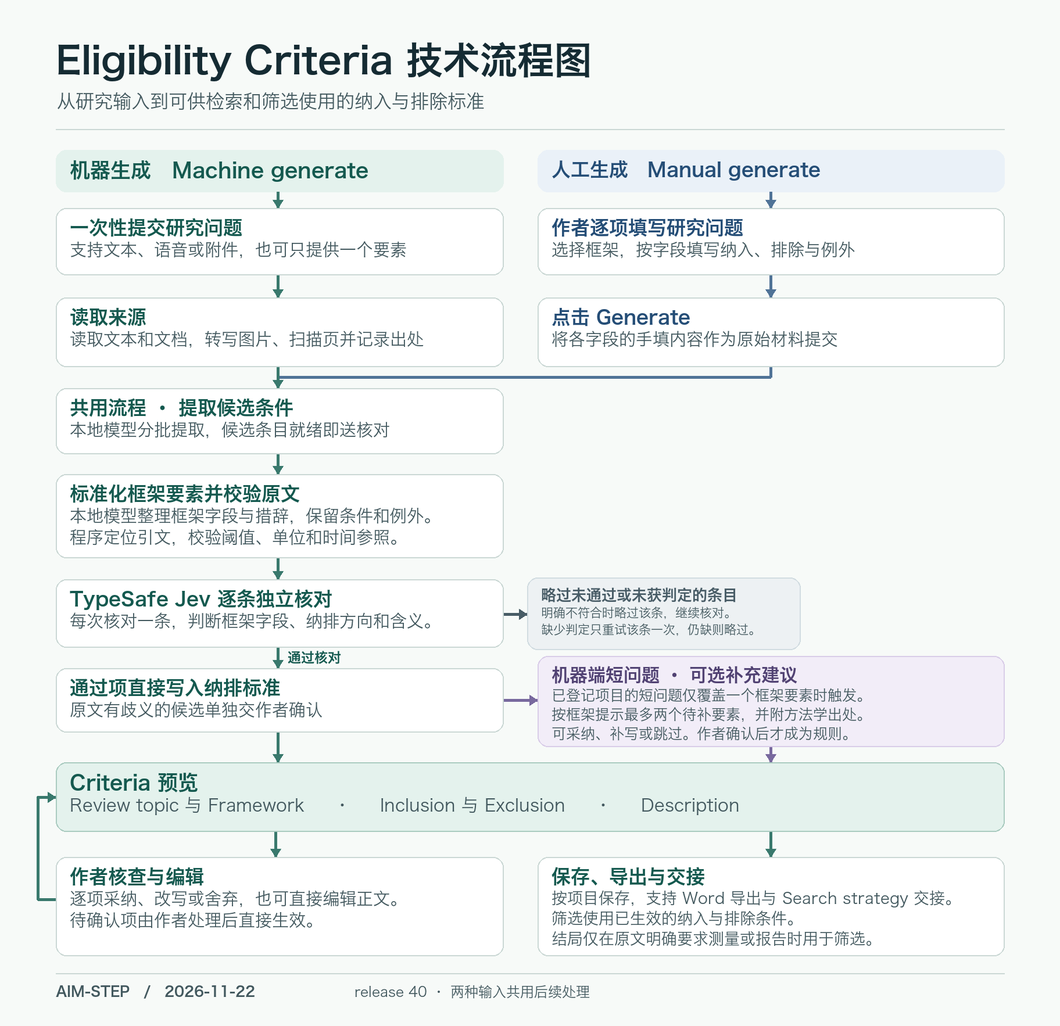
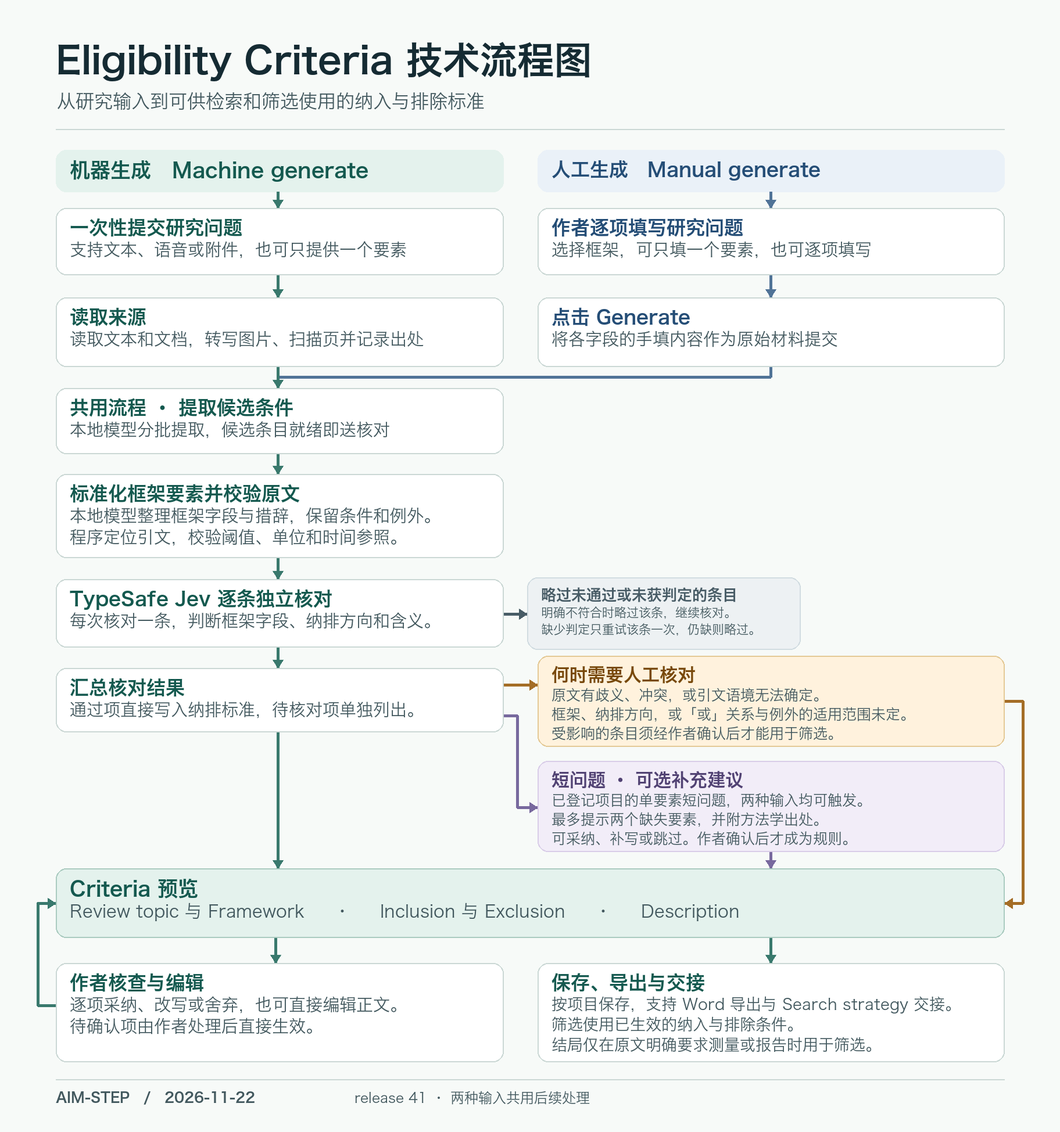
Share short-input advice across eligibility entry modes

Changed region(s): [[0.0625, 0.0311, 0.9688, 0.7786], [0.0312, 0.7475, 0.9375, 0.9966], [0.9375, 0.7163, 0.9688, 0.8097]]

diff --git a/search-strategy.html b/search-strategy.html
@@ -1,8 +1,8 @@
 <!doctype html>
 <html lang="en"><head>
 <script src="app/project-access.js?v=20261117-projects-1"></script>
-<script src="app/eligibility-release.js?v=20261122-criteria-release-40"></script>
-<script src="app/secure-origin.js?v=20261122-criteria-release-40"></script>
+<script src="app/eligibility-release.js?v=20261122-criteria-release-41"></script>
+<script src="app/secure-origin.js?v=20261122-criteria-release-41"></script>
 <script src="app/online-model.js?v=online-auth-v3"></script><meta charset="utf-8"><meta name="viewport" content="width=device-width,initial-scale=1"><meta name="theme-color" content="#ffffff"><meta name="description" content="Build database-specific search strategies from eligibility criteria, retrieve literature and save results locally."><title>AIM-STEP | Search strategy</title><style>:root{--ink:#171920;--ink2:#393a41;--muted:#686970;--line:#d8d9db;--plum:#4d6bfe;--pale:#eff1f8;--green:#182879;--amber:#0b218d;--red:#1832b4}*{box-sizing:border-box}body{margin:0;font:14px/1.5 Inter,Arial,sans-serif;color:var(--ink);background:#fafafa;-webkit-font-smoothing:antialiased}a{color:var(--plum);text-decoration:none}a:hover{text-decoration:underline}button,input,select,textarea{font:inherit}button{cursor:pointer}button:disabled{cursor:default;opacity:.5}button:focus-visible,a:focus-visible,summary:focus-visible{outline:3px solid #5c004d55;outline-offset:3px}[hidden]{display:none!important}.header{min-height:66px;background:#fff;border-bottom:1px solid var(--line);display:flex;align-items:center;justify-content:space-between;gap:24px;padding:0 max(28px,calc((100vw - 1240px)/2));position:sticky;top:0;z-index:5}.brand{display:flex;align-items:center;gap:10px;font-weight:700;letter-spacing:.07em}.brand:hover{text-decoration:none}.brand-mark{width:28px;height:28px;border:2px solid var(--plum);border-radius:50%;display:grid;place-items:center;font-size:11px}.brand small{display:block;font-size:9px;line-height:1;color:#656770;letter-spacing:.12em;font-weight:500}.nav{display:flex;gap:32px;color:#555}.nav a{padding:22px 0;color:inherit}.nav a.active{color:var(--plum);font-weight:700;border-bottom:2px solid var(--plum)}.project-pill{border:1px solid var(--line);border-radius:999px;padding:7px 12px;max-width:240px;white-space:nowrap;text-overflow:ellipsis;overflow:hidden}.wrap{max-width:1240px;margin:auto;padding:28px 24px 60px}.crumb{font-size:12px;color:var(--muted);margin-bottom:17px}.heading{display:flex;justify-content:space-between;align-items:flex-start;gap:20px;margin-bottom:23px}h1{font-size:28px;line-height:1.25;margin:0 0 10px;font-weight:700}h2{font-size:16px;margin:0;font-weight:700}h3{font-size:14px;margin:0}.sub{color:var(--muted);margin:0}.heading-actions{display:flex;align-items:center;gap:10px;flex-wrap:wrap;justify-content:flex-end}.badge{background:#f4f4f4;border:1px solid var(--line);border-radius:999px;padding:5px 10px;font-size:11px;color:var(--ink2)}.columns{display:grid;grid-template-columns:minmax(0,1.08fr) minmax(0,1fr);gap:20px;align-items:start}.left-column,.right-column{min-width:0}.panel{border:1px solid var(--line);background:#fff;border-radius:12px;margin-bottom:18px;overflow:hidden}.panel-head{display:flex;align-items:center;justify-content:space-between;gap:14px;padding:16px 18px;border-bottom:1px solid var(--line)}.panel-body{padding:18px}.panel-footer{padding:14px 18px;border-top:1px solid var(--line);display:flex;gap:10px;align-items:center}.strategy-panel{position:sticky;top:86px}.right-column .references{margin-top:18px}.label{display:block;font-size:12px;color:var(--ink2);font-weight:700;margin:13px 0 6px}.label:first-child{margin-top:0}.label.inline{margin:0}.text-input,.select,.textarea{width:100%;min-width:0;border:1px solid #c9cace;border-radius:7px;background:#fff;padding:10px 11px;color:var(--ink);outline:none}.textarea{resize:vertical;min-height:74px}.text-input:focus,.select:focus,.textarea:focus{border-color:var(--plum);box-shadow:0 0 0 3px #5c004d18}.text-input[readonly],.textarea[readonly]{background:#f8f8f8}.query{font:12px/1.65 ui-monospace,SFMono-Regular,Consolas,monospace;min-height:205px}.hint{font-size:12px;color:var(--muted);line-height:1.55;margin:10px 0;overflow-wrap:anywhere}.toolbar{display:flex;align-items:center;flex-wrap:wrap;gap:9px;margin-top:12px}.toolbar:first-child{margin-top:0}.toolbar>.btn{display:inline-flex;align-items:center;justify-content:center;gap:5px;padding:4px 8px;min-height:26px;border:1px solid #e4e5e8;border-radius:6px;color:#5f6169;background:#fafafb;font-size:12px;font-weight:500;line-height:1.25;text-align:center;text-decoration:none}.toolbar>.hint{flex:1;min-width:120px;margin:0}.btn{display:inline-flex;align-items:center;justify-content:center;gap:6px;border:1px solid #bfc0c4;background:#fff;border-radius:7px;padding:9px 13px;font-size:12px;font-weight:600;color:var(--ink2);line-height:1.4;text-align:center}.btn:hover{background:#f4f4f4;text-decoration:none}.btn.primary{padding:9px 13px;font-weight:600;background:var(--plum);border-color:var(--plum);color:#fff}.btn.primary:hover{background:#3b55db}.btn.small{font-size:12px;padding:4px 8px}.link-button{background:transparent;border:0;color:var(--plum);padding:0;text-decoration:underline}.segmented{display:flex;border:1px solid var(--line);border-radius:7px;overflow:hidden}.segmented button{border:0;background:#fff;padding:8px 11px;font-size:12px;color:var(--ink2)}.segmented button+button{border-left:1px solid var(--line)}.segmented .selected{background:var(--pale);color:var(--plum);font-weight:700}.two{display:grid;grid-template-columns:minmax(0,1fr) minmax(0,1fr);gap:14px}.two .label{margin-top:12px}.check{display:flex;align-items:flex-start;gap:8px;font-size:12px;line-height:1.5;cursor:pointer}.check input{accent-color:var(--plum);margin-top:3px;flex-shrink:0}.margin-top{margin-top:16px}.database-list{display:grid;grid-template-columns:1fr 1fr;gap:11px}.database-list small{display:block;font-size:10px;color:var(--muted)}.concept-list{display:grid;gap:12px;margin-top:16px}.concept{border:1px solid var(--line);border-radius:9px;padding:13px;background:#fcfcfc}.concept-head{display:flex;align-items:center;justify-content:space-between;gap:10px}.concept-head .text-input{font-weight:600;padding:7px 9px}.concept-head .check{align-items:center;flex:1;min-width:0}.concept-head .check input{margin:0}.remove-concept{font-size:18px;border:0;color:var(--muted);background:transparent;padding:0 5px;line-height:1}.concept details{margin-top:10px;font-size:12px}.concept .source-rule{font-size:11px;color:var(--muted);margin:8px 0 0;white-space:pre-line;overflow-wrap:anywhere}.model-panel{margin-top:12px;background:var(--pale);border:1px solid #d7dbee;border-radius:9px;padding:14px}.table-wrap{overflow:auto;max-width:100%;border:1px solid var(--line);border-radius:6px}.matrix{border-collapse:collapse;width:100%;table-layout:fixed;font-size:12px;text-align:left}.matrix th,.matrix td{padding:11px 12px;vertical-align:top;text-align:left;overflow-wrap:anywhere;border-bottom:1px solid var(--line);white-space:pre-line}.matrix th{background:#f4f4f4;font-weight:700}.matrix th+th,.matrix td+td{border-left:1px solid #000}.matrix th:nth-child(1){width:24%}.matrix th:nth-child(2){width:40%}.matrix th:nth-child(3){width:36%}.matrix tr:last-child td{border-bottom:0}.matrix .other{display:block;margin-top:6px;color:var(--muted);font-size:11px}.empty{padding:24px!important;text-align:center!important;color:var(--muted)}.tabs{display:flex;flex-wrap:wrap;gap:7px;margin-bottom:16px}.tab{border:1px solid var(--line);border-radius:7px;background:white;padding:8px 11px;font-size:11px;color:var(--ink2)}.tab.selected{background:var(--pale);border-color:var(--plum);color:var(--plum);font-weight:700}.strategy-notes{font-size:12px;color:var(--muted);padding-left:18px;margin:8px 0}.strategy-notes li{margin-bottom:6px}.divider{height:1px;background:var(--line);margin:16px 0}.notice{border:1px solid #d0d5eb;background:#f7f8fb;border-radius:8px;padding:11px 13px;font-size:12px;color:var(--ink2);white-space:pre-line;overflow-wrap:anywhere;margin:12px 0}.notice.warning{border-color:#b1bae8;background:#f1f3fe;color:#091b74}.notice.error{border-color:#c5ccef;background:#f6f8ff;color:var(--red)}.notice.success{border-color:#b3bade;background:#f2f4fb;color:var(--green)}.references>summary,#history>summary{padding:15px 18px;cursor:pointer;font-size:13px;font-weight:600}.references p,.references ul{font-size:12px;line-height:1.7}.references li{margin-bottom:9px}.references ul{padding-left:18px}.references .panel-body{padding-top:0}.file-input{max-width:100%;font-size:12px}.file-button{position:relative}.file-button input{position:absolute;inset:0;opacity:0;width:100%;cursor:pointer}.compact{width:auto;max-width:220px;padding:8px 10px;font-size:12px}.results-panel{margin-top:6px}.stats{display:grid;grid-template-columns:repeat(3,1fr);gap:18px;margin:20px 0}.stats div{display:flex;flex-direction:column;gap:3px}.stats strong{font-size:25px;font-weight:700;color:var(--plum)}.stats span{font-size:11px;color:var(--muted)}.filters{display:grid;grid-template-columns:2fr 1fr 1fr;gap:12px;margin-bottom:14px}.filters input,.filters select{font-size:12px}.results-table th:nth-child(1){width:51%}.results-table th:nth-child(2){width:27%}.results-table th:nth-child(3){width:22%}.results-table td{font-size:12px}.record-title{font-weight:600;display:block;margin-bottom:8px}.abstract{margin-top:8px;color:var(--ink2)}.abstract summary{cursor:pointer;font-size:11px;color:var(--plum)}.abstract p{font-size:12px;line-height:1.6;white-space:pre-line}.provenance{display:block;color:var(--muted);font-size:11px;margin:6px 0}.pager{justify-content:center}.pager .hint{flex:0 1 auto;min-width:0}.downloads{justify-content:space-between;flex-wrap:wrap}.downloads .toolbar{margin:0}#history{margin-top:16px;border:1px solid var(--line);border-radius:8px}#run-history{padding:0 14px 14px}.run{border-top:1px solid var(--line);padding:13px 0}.run-head{display:flex;justify-content:space-between;align-items:center;gap:10px}.run .query-history{white-space:pre-wrap;overflow-wrap:anywhere;background:#f5f5f5;padding:10px;border-radius:6px;font:11px/1.6 ui-monospace,Consolas,monospace;margin:8px 0}.run .hint{margin:6px 0}.toast{position:fixed;bottom:24px;left:50%;transform:translate(-50%,16px);background:#202128;color:white;border-radius:8px;padding:10px 17px;box-shadow:0 4px 20px #0002;font-size:12px;max-width:calc(100vw - 40px);opacity:0;pointer-events:none;transition:opacity .15s,transform .15s;z-index:10}.toast.show{opacity:1;transform:translate(-50%,0)}
 @media(min-width:961px){.right-column{position:sticky;top:86px}.right-column .strategy-panel{position:static}.references{max-height:440px;overflow:auto}}
 @media(max-width:960px){.columns{grid-template-columns:1fr}.strategy-panel{position:static}.heading{flex-wrap:wrap}.heading-actions{justify-content:flex-start}.nav{gap:20px}.header{padding:0 24px}.project-pill{max-width:140px}}
@@ -217,7 +217,7 @@ main.wrap .btn:disabled{opacity:.5;cursor:default}
   <div class="criteria-dialog-head"><div class="criteria-heading-group"><h2 id="previous-criteria-title" data-ui-localize>Eligibility criteria</h2><div class="criteria-source-actions"><button class="criteria-source-link" id="upload-criteria" type="button" data-ui-localize>Import from local</button><button class="criteria-source-link" id="edit-criteria" type="button" data-ui-localize>Edit eligibility criteria</button><button class="criteria-source-link" id="save-search-criteria" type="button" data-ui-localize>Save</button></div><input type="file" id="criteria-file" accept=".doc,.docx,.txt,.json,.csv,.tsv,.html,.htm" hidden aria-label="Import local eligibility criteria"></div><button type="button" id="close-previous-criteria" class="criteria-close" aria-label="Close eligibility criteria" title="Close"><span aria-hidden="true">×</span></button></div>
   <div class="criteria-dialog-body"><div class="active-criteria" id="active-criteria" hidden></div><ul class="uploaded-criteria" id="uploaded-criteria-files" aria-label="Uploaded eligibility criteria files" hidden></ul><div class="notice" id="source-message" hidden role="status"></div><div id="criteria-rows" class="criteria-summary"></div></div>
 </dialog>
-<div class="toast" id="toast" role="status" aria-live="polite"></div><script src="app/eligibility-library.js?v=20261122-criteria-release-40"></script><script src="app/search-criteria-editor.js?v=20261119-clear-criteria-1"></script><script>
+<div class="toast" id="toast" role="status" aria-live="polite"></div><script src="app/eligibility-library.js?v=20261122-criteria-release-41"></script><script src="app/search-criteria-editor.js?v=20261119-clear-criteria-1"></script><script>
 window.AIMSTEPProjectAccess?.run(function(){
 'use strict';
 (() => {

diff --git a/eligibility.html b/eligibility.html
@@ -2,8 +2,8 @@
 <html lang="en">
 <head>
 <script src="app/project-access.js?v=20261117-projects-1"></script>
-<script src="app/eligibility-release.js?v=20261122-criteria-release-40"></script>
-<script src="app/secure-origin.js?v=20261122-criteria-release-40"></script>
+<script src="app/eligibility-release.js?v=20261122-criteria-release-41"></script>
+<script src="app/secure-origin.js?v=20261122-criteria-release-41"></script>
 <script src="app/online-model.js?v=online-auth-v3"></script>
 <meta charset="utf-8"><meta name="viewport" content="width=device-width,initial-scale=1">
 <meta name="theme-color" content="#fff"><meta name="description" content="Define, pilot and confirm transparent eligibility criteria for a living evidence project.">
@@ -74,7 +74,7 @@
 .embedded-manual .preview-body,.embedded-manual .criteria-heading{padding-left:0;padding-right:0}
 </style>
 <link rel="stylesheet" href="app/theme.css?v=20261022-3">
-<script src="app/criteria-grounding.js?v=20261122-criteria-release-40"></script>
+<script src="app/criteria-grounding.js?v=20261122-criteria-release-41"></script>
 
 <link rel="stylesheet" href="app/tool-i18n.css?v=20261020-1">
 <script defer src="app/tool-i18n-catalog.js?v=20261118-criteria-actions-1"></script>
@@ -96,17 +96,17 @@
 <div class="section" id="manual-generate-panel" hidden><div class="section-head" data-collapse-name="Manual generate"><div class="manual-actions"><button class="btn btn-primary" id="refine-manual" type="button" data-ui-localize>Generate</button><button class="btn" id="stop-manual" type="button" hidden data-ui-localize>Stop</button><button class="btn criteria-action" id="manual-generate" type="button" aria-label="Clear all entered eligibility content" data-ui-localize><svg viewBox="0 0 24 24" aria-hidden="true"><path d="M3 6h18M9 6V4h6v2M5 6l1 14h12l1-14M10 10v6M14 10v6"/></svg>Clear</button><button class="btn" id="add-criterion" type="button" aria-expanded="false" aria-controls="criterion-picker" data-ui-localize>＋ Add criterion</button></div></div><label class="field-label" data-ui-localize>Question framework <span class="framework-help"><button class="framework-help-button" id="framework-help-button" type="button" aria-label="Framework guide" aria-expanded="false" aria-controls="framework-help-popup">ⓘ</button><span class="framework-help-popup" id="framework-help-popup" role="dialog" aria-label="Framework guide" hidden data-ui-localize><strong data-ui-localize>Framework guide</strong>PICO is a starting point for intervention effects; PECO for exposure questions; PCC for scoping reviews; PICo for qualitative experiences. Select the framework that fits your objective.</span></span></label><div class="frameworks" role="group" aria-label="Question framework"><button class="framework selected" data-framework="PICO">PICO</button><button class="framework" data-framework="PICOS">PICOS</button><button class="framework" data-framework="PECO">PECO</button><button class="framework" data-framework="PECOS">PECOS</button><button class="framework" data-framework="PCC">PCC</button><button class="framework" data-framework="PICo">PICo</button><button class="framework" data-framework="Other" data-ui-localize>Other</button></div><div class="criterion-picker" id="criterion-picker" role="group" aria-label="Choose a criterion" hidden></div><div class="criteria-list" id="criteria-list"></div><div class="subheading manual-limits-heading" style="margin-top:18px" data-ui-localize>Limits</div><div class="limits-grid"><div class="limit-range"><div class="field-label" data-ui-localize>Custom range</div><div class="range-date-fields"><div><label class="field-label" for="start-date" data-ui-localize>Start date</label><input id="start-date" class="text-input" type="date"></div><div><label class="field-label" for="end-date" data-ui-localize>End date</label><input id="end-date" class="text-input" type="date"></div></div></div><div><label class="field-label" for="language" data-ui-localize>Language</label><select id="language" class="select"><option value="" data-ui-localize>Select language</option><option value="Chinese" data-ui-localize>Chinese</option><option value="English" data-ui-localize>English</option></select></div><div><label class="field-label" for="limits-other" data-ui-localize>Other</label><input id="limits-other" class="text-input" placeholder="Describe any additional limit"></div></div><div id="description-criteria-list" hidden></div><div class="hint machine-status" id="manual-refine-status" role="status" aria-live="polite" hidden></div></div>
 </section>
 <aside class="right-column"><section class="panel"><div class="criteria-heading"><h2 data-ui-localize>Criteria</h2><div class="criteria-file-actions"><button class="btn criteria-action" id="save-criteria" type="button" hidden data-ui-localize><svg viewBox="0 0 24 24" aria-hidden="true"><path d="M19 21H5a2 2 0 0 1-2-2V5a2 2 0 0 1 2-2h12l4 4v12a2 2 0 0 1-2 2Z"/><path d="M7 3v6h10V3M7 21v-8h10v8"/></svg>Save</button><button class="btn criteria-action" id="download" type="button" data-ui-localize><svg viewBox="0 0 24 24" aria-hidden="true"><path d="M12 3v12m-4-4 4 4 4-4M5 15v5h14v-5"/></svg>Export</button><button class="btn criteria-action" id="clear-criteria" type="button" hidden title="Clear current criteria" data-ui-localize><svg viewBox="0 0 24 24" aria-hidden="true"><path d="M3 6h18M9 6V4h6v2M5 6l1 14h12l1-14M10 10v6M14 10v6"/></svg>Clear</button></div></div><p id="criteria-timing" hidden><span id="criteria-working-label" data-ui-localize>Working</span><span id="criteria-finished-label" data-ui-localize hidden>Elapsed time</span> · <span id="criteria-elapsed" role="timer" aria-label="Elapsed generation time">0:00</span></p><div class="preview-body" id="preview"></div></section></aside></div></main><div class="toast" id="toast" role="status" aria-live="polite"></div>
-<script src="app/eligibility-library.js?v=20261122-criteria-release-40"></script>
-<script src="app/eligibility/registries.js?v=20261122-criteria-release-40"></script>
-<script src="app/eligibility/domain.js?v=20261122-criteria-release-40"></script>
-<script src="app/eligibility/methodology.js?v=20261122-criteria-release-40"></script>
-<script src="app/eligibility/document.js?v=20261122-criteria-release-40"></script>
-<script src="app/eligibility/sparse-input.js?v=20261122-criteria-release-40"></script>
-<script src="app/eligibility/engine.js?v=20261122-criteria-release-40"></script>
-<script src="app/eligibility/lessons.js?v=20261122-criteria-release-40"></script>
-<script src="app/eligibility/model.js?v=20261122-criteria-release-40"></script>
-<script src="app/eligibility-reset.js?v=20261122-criteria-release-40"></script>
-<script src="app/eligibility/background.js?v=20261122-criteria-release-40"></script>
+<script src="app/eligibility-library.js?v=20261122-criteria-release-41"></script>
+<script src="app/eligibility/registries.js?v=20261122-criteria-release-41"></script>
+<script src="app/eligibility/domain.js?v=20261122-criteria-release-41"></script>
+<script src="app/eligibility/methodology.js?v=20261122-criteria-release-41"></script>
+<script src="app/eligibility/document.js?v=20261122-criteria-release-41"></script>
+<script src="app/eligibility/sparse-input.js?v=20261122-criteria-release-41"></script>
+<script src="app/eligibility/engine.js?v=20261122-criteria-release-41"></script>
+<script src="app/eligibility/lessons.js?v=20261122-criteria-release-41"></script>
+<script src="app/eligibility/model.js?v=20261122-criteria-release-41"></script>
+<script src="app/eligibility-reset.js?v=20261122-criteria-release-41"></script>
+<script src="app/eligibility/background.js?v=20261122-criteria-release-41"></script>
 <script>
 window.AIMSTEPProjectAccess?.run(function(){
 
@@ -1223,7 +1223,7 @@ function publishCriteriaSummary(data,complete){
   const {rows,framework,pending,limits,topic,paragraph}=data;
   shareSummary({rowsSig:summaryRowsSig(state.activeGenerator==='machine'?state.machineCriteria:state.criteria),topic:topic||summaryTopic(rows,framework),framework,
     ...summarizedRules(rows),...(!data.strict&&(data.questions.length||data.hasExtraRows)?{screeningCriteria:summarizedRules(complete.rows)}:{}),limits,pending,paragraph:paragraph||'',paragraphNote:'Click Generate to generate a publication-style paragraph with the local model.',
-    authorChecks:(currentRefinement()?.sourceConfirmations||[]).filter(c=>c.status==='suggested'&&(!data.strict||(c.locations||[{domain:c.domain}]).some(l=>l.section==='framework'||withinFramework(l.domain,data.questions.find(q=>q.display_number===c.questionNumber)?.frameworkSlots||data.slots)))).map(c=>({domain:c.domain,text:c.text,required:!c.reviewOnly})),methodVersion:state.machineRefinement?.audit?.version||state.manualRefinement?.audit?.version||null});
+    authorChecks:(currentRefinement()?.sourceConfirmations||[]).filter(c=>c.status==='suggested'&&(!data.strict||(c.locations||[{domain:c.domain}]).some(l=>l.section==='framework'||withinFramework(l.domain,data.questions.find(q=>q.display_number===c.questionNumber)?.frameworkSlots||data.slots)))).map(c=>({domain:c.domain,text:c.text,required:!c.reviewOnly&&!c.methodAdvice})),methodVersion:state.machineRefinement?.audit?.version||state.manualRefinement?.audit?.version||null});
 }
 function renderCards(){const slots=frameworkFields(manualFramework()),extra=[];list.innerHTML=state.criteria.map((row,i)=>{const c=visibleCriterion(row);if(!c.condition&&!c.uncertain&&!c.definition&&['condition','uncertain','definition'].some(f=>splitVisibleRules(row,f).hidden))return '';const markup=`<article class="criterion" data-index="${i}"><div class="criterion-top"><span class="criterion-title">${escapeHtml(c.title||'Criterion')}</span><button class="remove" title="Remove criterion" aria-label="Remove ${escapeHtml(c.title)}" data-remove="${i}">×</button></div><div class="criterion-grid"><div class="criterion-eligibility"><label class="field-label">Eligibility rule</label><input class="text-input" data-field="condition" value="${escapeHtml(c.condition)}" placeholder="A clear, testable rule"></div><div><label class="field-label">Exclusion rule</label><input class="text-input" data-field="uncertain" value="${escapeHtml(c.uncertain)}" placeholder="Specify the exclusion rule"></div><div><label class="field-label">Conditions and exceptions</label><input class="text-input" data-field="definition" value="${escapeHtml(c.definition)}" placeholder="Thresholds, exceptions, mixed groups"></div></div></article>`;if(withinFramework(c.title,slots))return markup;extra.push(markup);return '';}).join('');
   const extraList=$('description-criteria-list');extraList.hidden=!extra.length;extraList.innerHTML=extra.length?'<div class="subheading">Details for Description</div>'+extra.join(''):'';
@@ -1844,7 +1844,7 @@ $('download').addEventListener('click',()=>{if(!savePreviewEdits(false))return;c
 // a current set with at least one eligibility rule and no unresolved new-method decisions.
 function hasRequiredAuthorChecks(){
   const refinement=currentRefinement();
-  if(refinement?.sourceConfirmations?.some(item=>item.status==='suggested'&&!item.reviewOnly))return true;
+  if(refinement?.sourceConfirmations?.some(item=>item.status==='suggested'&&!item.reviewOnly&&!item.methodAdvice))return true;
   if(state.activeGenerator!=='machine')return false;
   const snapshot=state.eligibilityV3Snapshot;
   return !!(snapshot?.issues?.some(issue=>issue.status==='open'&&issue.blocking)||snapshot?.status==='needs_clarification'&&snapshot.validation?.blocking_issues?.length);

diff --git a/build-protocol.html b/build-protocol.html
@@ -24,4 +24,4 @@
 <div class="tool-writing-layout"><div class="tool-writing-setup"><div class="proposal-import-layout" id="proposal-import-layout"><section class="panel proposal-import-panel"><div class="panel-head"><h2 data-ui-localize>Import a proposal</h2><button class="btn" id="import-protocol" data-ui-localize>Import</button><input id="protocol-file" type="file" accept=".pdf,.docx,.txt,.md,.markdown,.xlsx,.csv,.tsv,.json" multiple hidden></div><div class="panel-body"><div id="proposal-imports" class="proposal-imports" hidden><ul id="proposal-import-list" data-ui-preserve></ul></div></div></section><section class="panel proposal-preview-panel" id="proposal-preview" aria-labelledby="proposal-preview-title" hidden><div class="panel-head"><h2 id="proposal-preview-title" data-ui-preserve>File preview</h2><div class="proposal-preview-links" data-ui-preserve><a class="btn" id="proposal-preview-open" target="_blank" rel="noopener" hidden>Open original</a><a class="btn" id="proposal-preview-download" download hidden>Download original</a><button class="proposal-file-action proposal-file-delete" id="proposal-preview-close" type="button" aria-label="Close preview">×</button></div></div><div class="panel-body" data-ui-preserve><p id="proposal-preview-empty" hidden></p><button class="btn" id="proposal-preview-choose" type="button" hidden>Choose original file</button><input id="proposal-original-file" type="file" accept=".pdf,.docx,.txt,.md,.markdown,.xlsx,.csv,.tsv,.json" hidden><iframe id="proposal-preview-frame" title="Original file preview" referrerpolicy="no-referrer" hidden></iframe></div></section></div>
 <div class="proposal-create-layout" id="proposal-create-layout"><section class="panel proposal-create-panel"><div class="panel-head"><h2 data-ui-localize>Create a proposal</h2><div class="protocol-create-actions"><div class="run-row" id="run-row" hidden><span id="run-label" class="sr-only" data-ui-localize>Working…</span><span id="protocol-timing" class="workflow-time" role="timer" hidden></span><button class="btn" id="stop-protocol" data-ui-localize>Stop</button></div><button class="btn" id="clear-create-proposal" type="button" data-ui-localize><svg viewBox="0 0 24 24" aria-hidden="true"><path d="M3 6h18M9 6V4h6v2M5 6l1 14h12l1-14M10 10v6M14 10v6"/></svg>Clear</button><button class="btn btn-primary" id="generate-protocol" data-ui-localize>Generate</button></div></div><div class="panel-body"><div class="proposal-generated" id="proposal-generated" hidden><ul id="proposal-generated-list" data-ui-preserve aria-label="Generated proposals"></ul></div><p id="proposal-generation-status" class="proposal-generation-status" role="status" aria-live="polite" hidden></p><div id="proposal-manual-inputs"><div id="proposal-manual-form" data-ui-preserve></div></div></div></section></div>
 <p id="protocol-status" role="status" aria-live="polite"></p></div><div class="tool-writing-editor" hidden><section class="panel"><div class="panel-head"><div class="protocol-review-heading"></div><div class="toolbar"><button class="btn" id="save-protocol" data-ui-localize>Save</button><select id="export-format" aria-label="Export format"><option value="docx" data-ui-localize>Word (.docx)</option><option value="txt" data-ui-localize>Text (.txt)</option></select><button class="btn" id="export-protocol" data-ui-localize>Export</button></div></div><div class="panel-body"><label for="protocol-text" data-ui-localize>Proposal</label><textarea id="protocol-text" rows="22" placeholder="Your imported or generated proposal will appear here for editing."></textarea><div id="protocol-feedback" hidden><h3 data-ui-localize>Items to review</h3><ul id="protocol-issues"></ul></div><details id="handoff-preview" hidden><summary data-ui-localize>Content for Eligibility criteria and Search strategy</summary><div id="handoff-content"></div></details><label class="confirm" data-ui-localize><input type="checkbox" id="confirm-protocol">I have reviewed this proposal and confirm its use in the next tools.</label><div class="toolbar"><button class="btn btn-primary" id="submit-protocol" data-ui-localize>Confirm and submit</button><button class="btn" id="clear-protocol" data-ui-localize>Clear</button></div><p class="hint" data-ui-localize>Submit updates this AIM-STEP project. PROSPERO registration is completed separately on the registry website.</p></div></section></div></div></main>
-<script src="app/online-model.js?v=1"></script><script src="app/extraction-sources.js?v=1"></script><script src="app/extraction-form-import.js?v=4"></script><script src="app/extraction-definition-word.js?v=2"></script><script src="app/eligibility-library.js?v=20261122-criteria-release-40"></script><script src="app/protocol-core.js?v=20261021-4"></script><script src="app/protocol-manual.js?v=20261021-5"></script><script src="app/proposal-files.js?v=20261021-1"></script><script src="app/manuscript-core.js?v=20261021-30"></script><script src="app/proposal-model.js?v=20261021-50"></script><script src="app/proposal-context.js?v=20261021-2"></script><script src="app/proposal-drafting.js?v=20261021-50"></script><script src="app/proposal-materials.js?v=20261021-50"></script><script src="app/proposal-pdf.js?v=20261021-1"></script><script src="app/protocol-workspace.js?v=20261120-workflow-time-1"></script></body></html>
+<script src="app/online-model.js?v=1"></script><script src="app/extraction-sources.js?v=1"></script><script src="app/extraction-form-import.js?v=4"></script><script src="app/extraction-definition-word.js?v=2"></script><script src="app/eligibility-library.js?v=20261122-criteria-release-41"></script><script src="app/protocol-core.js?v=20261021-4"></script><script src="app/protocol-manual.js?v=20261021-5"></script><script src="app/proposal-files.js?v=20261021-1"></script><script src="app/manuscript-core.js?v=20261021-30"></script><script src="app/proposal-model.js?v=20261021-50"></script><script src="app/proposal-context.js?v=20261021-2"></script><script src="app/proposal-drafting.js?v=20261021-50"></script><script src="app/proposal-materials.js?v=20261021-50"></script><script src="app/proposal-pdf.js?v=20261021-1"></script><script src="app/protocol-workspace.js?v=20261120-workflow-time-1"></script></body></html>

diff --git a/app/eligibility/sparse-input.js b/app/eligibility/sparse-input.js
@@ -31,22 +31,42 @@ const comparisonCue=/\b(?:versus|vs\.?\s|compar(?:e[ds]?|ing) (?:with|to))\b|与
 const objectiveCue=/\b(?:to (?:assess|evaluate|determine|examine)|(?:benefits?|effects?|effectiveness|efficacy) of)\b|旨在(?:评估|评价)/iu;
 const comparisonLead=/^\s*(?:compar(?:ed|ing) (?:with|to)\b|对照(?:为|是))/iu;
 const participantScope=/\b(?:among|in|for)\s+(?:(?:older|young|hospitali[sz]ed|pregnant)\s+)?(?:adults?|children|patients?|people|infants?|participants?)\b/iu;
+const formSections=/^(?:Inclusion criteria|Exclusion criteria|Conditions and exceptions):[ \t]*(?=\r?$)/gmu;
+const formStart=/^(?:Inclusion criteria|Exclusion criteria|Conditions and exceptions):[ \t]*\r?\n/u;
+function labelRanges(text,dimension){
+ const field=new RegExp('^[ \\t]*(?:'+labels[dimension]+')[ \\t]*[:：=][ \\t]*','gimu');
+ return [...text.matchAll(formSections),...text.matchAll(field)].map(match=>{
+  const start=Array.from(text.slice(0,match.index)).length;
+  return {start,end:start+Array.from(match[0]).length};
+ });
+}
+function maskRanges(text,ranges){
+ return Array.from(text,(char,index)=>ranges.some(ref=>index>=ref.start&&index<ref.end)?' ':char).join('');
+}
 function suppliedDimension(question,elements){
  const registration=question.context.registration;
- const source=question.source_refs?.[0],text=question.original_text.trim();
- if(!registration||!source||question.document_input_only||question.additional_source_refs?.length||question.imported_source_refs?.length||
-    Array.from(text).length>180||(text.match(/[\p{L}\p{N}]+/gu)||[]).length>24)return null;
+ const source=question.source_refs?.[0],original=question.original_text;
+ if(!registration||!source||question.document_input_only||question.additional_source_refs?.length||question.imported_source_refs?.length)return null;
  const cited=elements.filter(e=>e.information_status!=='missing'&&e.source_refs?.length&&e.semantic_role!=='background_information');
  const [dimension,...other]=new Set(cited.map(rootDimension));
  if(!dimension||other.length||!Object.hasOwn(labels,dimension))return null;
+ const formatted=formStart.test(original.trimStart());
+ if(formatted&&/^Additional limits:[ \t]*\r?$/mu.test(original))return null;
+ // The manual editor adds headings around the author's wording. Ignore
+ // those headings for coverage and length while keeping original quote offsets.
+ const headings=formatted?labelRanges(original,dimension):[];
+ const body=formatted?maskRanges(original,headings):original;
+ const text=body.trim();
+ if(Array.from(formatted?text.replace(/\s+/gu,' '):text).length>180||(text.match(/[\p{L}\p{N}]+/gu)||[]).length>24)return null;
  const fieldLabel=new RegExp('^\\s*(?:'+labels[dimension]+')\\s*[:：=]','iu');
+ const labelled=formatted||fieldLabel.test(text);
  const comparisonText=dimension==='comparator'?text.replace(fieldLabel,'').replace(comparisonLead,''):text;
- if((text.match(fieldHeadings)||[]).length>1||comparisonCue.test(comparisonText)||!fieldLabel.test(text)&&objectiveCue.test(text))return null;
+ if((text.match(fieldHeadings)||[]).length>(formatted?0:1)||comparisonCue.test(comparisonText)||!labelled&&objectiveCue.test(text))return null;
  if(['population','sample'].includes(dimension)&&/\b(?:receiving|received|assigned to|treated with|randomi[sz]ed to)\b|接受.{1,15}(?:治疗|干预)/iu.test(text))return null;
- if(['intervention','comparator','exposure','outcome'].includes(dimension)&&!fieldLabel.test(text)&&participantScope.test(text))return null;
+ if(['intervention','comparator','exposure','outcome'].includes(dimension)&&!labelled&&participantScope.test(text))return null;
  const ranges=cited.flatMap(e=>e.source_refs).filter(ref=>ref.source_id===source.source_id&&ref.source_revision===source.source_revision);
- const remainder=Array.from(question.original_text,(char,index)=>ranges.some(ref=>index>=ref.start&&index<ref.end)?' ':char).join('');
- const valueOnly=remainder.replace(fieldLabel,'');
+ const remainder=maskRanges(original,[...ranges,...headings]);
+ const valueOnly=formatted?remainder:remainder.replace(fieldLabel,'');
  const rest=(dimension==='comparator'?valueOnly.replace(comparisonLead,''):valueOnly).replace(/^(?:\s*(?:we\s+(?:will\s+)?)?(?:only\s+)?(?:includ(?:e|ed)|exclud(?:e|ed))\b|\s*(?:仅纳入|不纳入|纳入|排除))/iu,'')
   .replace(/\b(?:and|or|only|among|in|the|of)\b|以及|或者|仅|和|或/giu,'');
  return ranges.length&&!/[\p{L}\p{N}]/u.test(rest)?dimension:null;

diff --git a/app/eligibility/background.js b/app/eligibility/background.js
@@ -6,7 +6,7 @@ const {currentEpoch,requireEpoch,projectKeys,resetProject}=Reset;
 const eligibilityPolicy='framework-only-v1';
 const presentationVersion='framework-display-v12';
 // Bump when eligibility semantics change. Presentation updates can use the saved evidence.
-const generationVersion='20261122-criteria-release-40';
+const generationVersion='20261122-criteria-release-41';
 const labels={population:'Population',sample:'Sample',intervention:'Intervention',exposure:'Exposure',comparator:'Comparison',outcome:'Outcomes',concept:'Concept',context:'Context',phenomenon_of_interest:'Phenomenon of Interest',condition:'Condition',index_test:'Index test',reference_test:'Reference test',target_condition:'Target condition',design:'Study design',study_design:'Study design',research_type:'Research type',evaluation:'Evaluation',language:'Language',publication_date:'Publication date',evidence_source:'Evidence source',core_scope:'Review scope',analysis_method:'Analysis plan',analysis_data_unit:'Data plan',analysis_objective:'Analysis objectives'};
 const label=dimension=>labels[String(dimension||'').split('.')[0]]||String(dimension||'Other').replace(/_/g,' ').replace(/^./,c=>c.toUpperCase());
 function signature(value){
@@ -144,7 +144,7 @@ function projectToClassic(project,registry,editBindings){
   if(issue.method_advice){
    const domain=field?.(issue.method_advice.dimension);
    if(!domain)return [];
-   return {item:issue.question_text,text:issue.question_text,kind:'proposal',domain,side:'include',status:'suggested',backgroundIssue:true,
+   return {item:issue.question_text,text:issue.question_text,kind:'proposal',domain,side:'include',status:'suggested',backgroundIssue:true,reviewOnly:true,
     locations:[{section:'include',domain}],issue_id:issue.issue_id,methodAdvice:{rationale:issue.scope_impact,references:issue.method_advice.references},
     questionNumber:multiple?output.questions.find(q=>q.question_id===issue.question_id)?.display_number:null,
     options:authorChoices(issue).map(({label,option_id})=>({label,option_id}))};

diff --git a/title-abstract-screening.html b/title-abstract-screening.html
@@ -2,8 +2,8 @@
 <html lang="en">
 <head>
 <script src="app/project-access.js?v=20261117-projects-1"></script>
-<script src="app/eligibility-release.js?v=20261122-criteria-release-40"></script>
-<script src="app/secure-origin.js?v=20261122-criteria-release-40"></script>
+<script src="app/eligibility-release.js?v=20261122-criteria-release-41"></script>
+<script src="app/secure-origin.js?v=20261122-criteria-release-41"></script>
 <script src="app/online-model.js?v=online-auth-v3"></script>
 <meta charset="utf-8">
 <meta name="viewport" content="width=device-width,initial-scale=1">
@@ -378,7 +378,7 @@ th{background:#f4f4f4}
 <script src="app/screening-calibration.js?v=20261116-feedback-prompt-v2"></script>
 <script src="app/screening-prompt.js?v=20261116-ai-four-sections-v2"></script>
 <script src="app/screening-prompt-editor.js?v=20261116-ai-four-sections-v1"></script>
-<script src="app/eligibility-reset.js?v=20261122-criteria-release-40"></script><script src="app/eligibility-library.js?v=20261122-criteria-release-40"></script><script src="app/search-criteria-editor.js?v=20261119-clear-criteria-1"></script><script src="app/screening-criteria-dialog.js?v=20261122-criteria-release-40"></script><script>
+<script src="app/eligibility-reset.js?v=20261122-criteria-release-41"></script><script src="app/eligibility-library.js?v=20261122-criteria-release-41"></script><script src="app/search-criteria-editor.js?v=20261119-clear-criteria-1"></script><script src="app/screening-criteria-dialog.js?v=20261122-criteria-release-41"></script><script>
 window.AIMSTEPProjectAccess?.run(function(){
 
 'use strict';

diff --git a/full-text-screening.html b/full-text-screening.html
@@ -2,8 +2,8 @@
 <html lang="en">
 <head>
 <script src="app/project-access.js?v=20261117-projects-1"></script>
-<script src="app/eligibility-release.js?v=20261122-criteria-release-40"></script>
-<script src="app/secure-origin.js?v=20261122-criteria-release-40"></script>
+<script src="app/eligibility-release.js?v=20261122-criteria-release-41"></script>
+<script src="app/secure-origin.js?v=20261122-criteria-release-41"></script>
 <script src="app/online-model.js?v=online-auth-v3"></script>
 <meta charset="utf-8">
 <meta name="viewport" content="width=device-width,initial-scale=1">
@@ -403,7 +403,7 @@ th{background:#f4f4f4}
 <script src="app/screening-calibration.js?v=ai-first-20261006"></script>
 <script src="app/fulltext-browser.js?v=20261006-queue1"></script>
 <script src="app/fulltext-assistant.js?v=20261006-queue1"></script>
-<script src="app/eligibility-reset.js?v=20261122-criteria-release-40"></script><script src="app/eligibility-library.js?v=20261122-criteria-release-40"></script><script src="app/search-criteria-editor.js?v=20261119-clear-criteria-1"></script><script src="app/screening-criteria-dialog.js?v=20261122-criteria-release-40"></script><script>
+<script src="app/eligibility-reset.js?v=20261122-criteria-release-41"></script><script src="app/eligibility-library.js?v=20261122-criteria-release-41"></script><script src="app/search-criteria-editor.js?v=20261119-clear-criteria-1"></script><script src="app/screening-criteria-dialog.js?v=20261122-criteria-release-41"></script><script>
 window.AIMSTEPProjectAccess?.run(function(){
 
 'use strict';

diff --git a/index.html b/index.html
@@ -2,8 +2,8 @@
 <html lang="en">
   <head>
     <base href="/">
-<script src="app/eligibility-release.js?v=20261122-criteria-release-40"></script>
-<script src="app/secure-origin.js?v=20261122-criteria-release-40"></script>
+<script src="app/eligibility-release.js?v=20261122-criteria-release-41"></script>
+<script src="app/secure-origin.js?v=20261122-criteria-release-41"></script>
     <meta charset="UTF-8" />
     <meta name="viewport" content="width=device-width, initial-scale=1.0" />
     <meta name="description" content="AIM-STEP workflow: start a project and work through the evidence-based research toolkit." />
@@ -1696,8 +1696,8 @@ body.project-page-mode .toolset-layout { display: none; }
 </style>
   <link rel="stylesheet" href="app/theme.css?v=20261022-3">
   <link rel="stylesheet" href="app/dashboard.css?v=20261117-header-unified-1">
-<script src="app/eligibility-library.js?v=20261122-criteria-release-40"></script>
-<script src="app/criteria-grounding.js?v=20261122-criteria-release-40"></script>
+<script src="app/eligibility-library.js?v=20261122-criteria-release-41"></script>
+<script src="app/criteria-grounding.js?v=20261122-criteria-release-41"></script>
 <script src="app/project-task-status.js?v=20261118-criteria-actions-1"></script>
 <script defer src="app/header-navigation.js?v=20261021-47"></script>
   <style>.project-task-status{font-size:12px;font-weight:400;color:#686970;margin-left:auto;text-align:right;overflow-wrap:anywhere;max-width:55%}</style>

diff --git a/title-and-abstract-screening/index.html b/title-and-abstract-screening/index.html
@@ -4,4 +4,4 @@
     const next=pattern.exec(requested||''),local=pattern.exec(current||'');
     if(!next)return current;
     return !local||next[1]>local[1]||(next[1]===local[1]&&Number(next[2])>Number(local[2]))?requested:current;
-  })("20261122-criteria-release-40",target.searchParams.get('appVersion')));target.hash=location.hash;location.replace(target.href);</script></head><body><a href="../?view=page&amp;page=title-abstract-screening.html">Open tool</a></body></html>
+  })("20261122-criteria-release-41",target.searchParams.get('appVersion')));target.hash=location.hash;location.replace(target.href);</script></head><body><a href="../?view=page&amp;page=title-abstract-screening.html">Open tool</a></body></html>

diff --git a/full-text-assess/index.html b/full-text-assess/index.html
@@ -4,4 +4,4 @@
     const next=pattern.exec(requested||''),local=pattern.exec(current||'');
     if(!next)return current;
     return !local||next[1]>local[1]||(next[1]===local[1]&&Number(next[2])>Number(local[2]))?requested:current;
-  })("20261122-criteria-release-40",target.searchParams.get('appVersion')));target.hash=location.hash;location.replace(target.href);</script></head><body><a href="../?view=page&amp;page=full-text-screening.html">Open tool</a></body></html>
+  })("20261122-criteria-release-41",target.searchParams.get('appVersion')));target.hash=location.hash;location.replace(target.href);</script></head><body><a href="../?view=page&amp;page=full-text-screening.html">Open tool</a></body></html>

diff --git a/search-strategy/index.html b/search-strategy/index.html
@@ -4,4 +4,4 @@
     const next=pattern.exec(requested||''),local=pattern.exec(current||'');
     if(!next)return current;
     return !local||next[1]>local[1]||(next[1]===local[1]&&Number(next[2])>Number(local[2]))?requested:current;
-  })("20261122-criteria-release-40",target.searchParams.get('appVersion')));target.hash=location.hash;location.replace(target.href);</script></head><body><a href="../?view=page&amp;page=search-strategy.html">Open tool</a></body></html>
+  })("20261122-criteria-release-41",target.searchParams.get('appVersion')));target.hash=location.hash;location.replace(target.href);</script></head><body><a href="../?view=page&amp;page=search-strategy.html">Open tool</a></body></html>

diff --git a/eligibility/index.html b/eligibility/index.html
@@ -4,4 +4,4 @@
     const next=pattern.exec(requested||''),local=pattern.exec(current||'');
     if(!next)return current;
     return !local||next[1]>local[1]||(next[1]===local[1]&&Number(next[2])>Number(local[2]))?requested:current;
-  })("20261122-criteria-release-40",target.searchParams.get('appVersion')));target.hash=location.hash;location.replace(target.href);</script></head><body><a href="../?view=page&amp;page=eligibility.html">Open tool</a></body></html>
+  })("20261122-criteria-release-41",target.searchParams.get('appVersion')));target.hash=location.hash;location.replace(target.href);</script></head><body><a href="../?view=page&amp;page=eligibility.html">Open tool</a></body></html>
